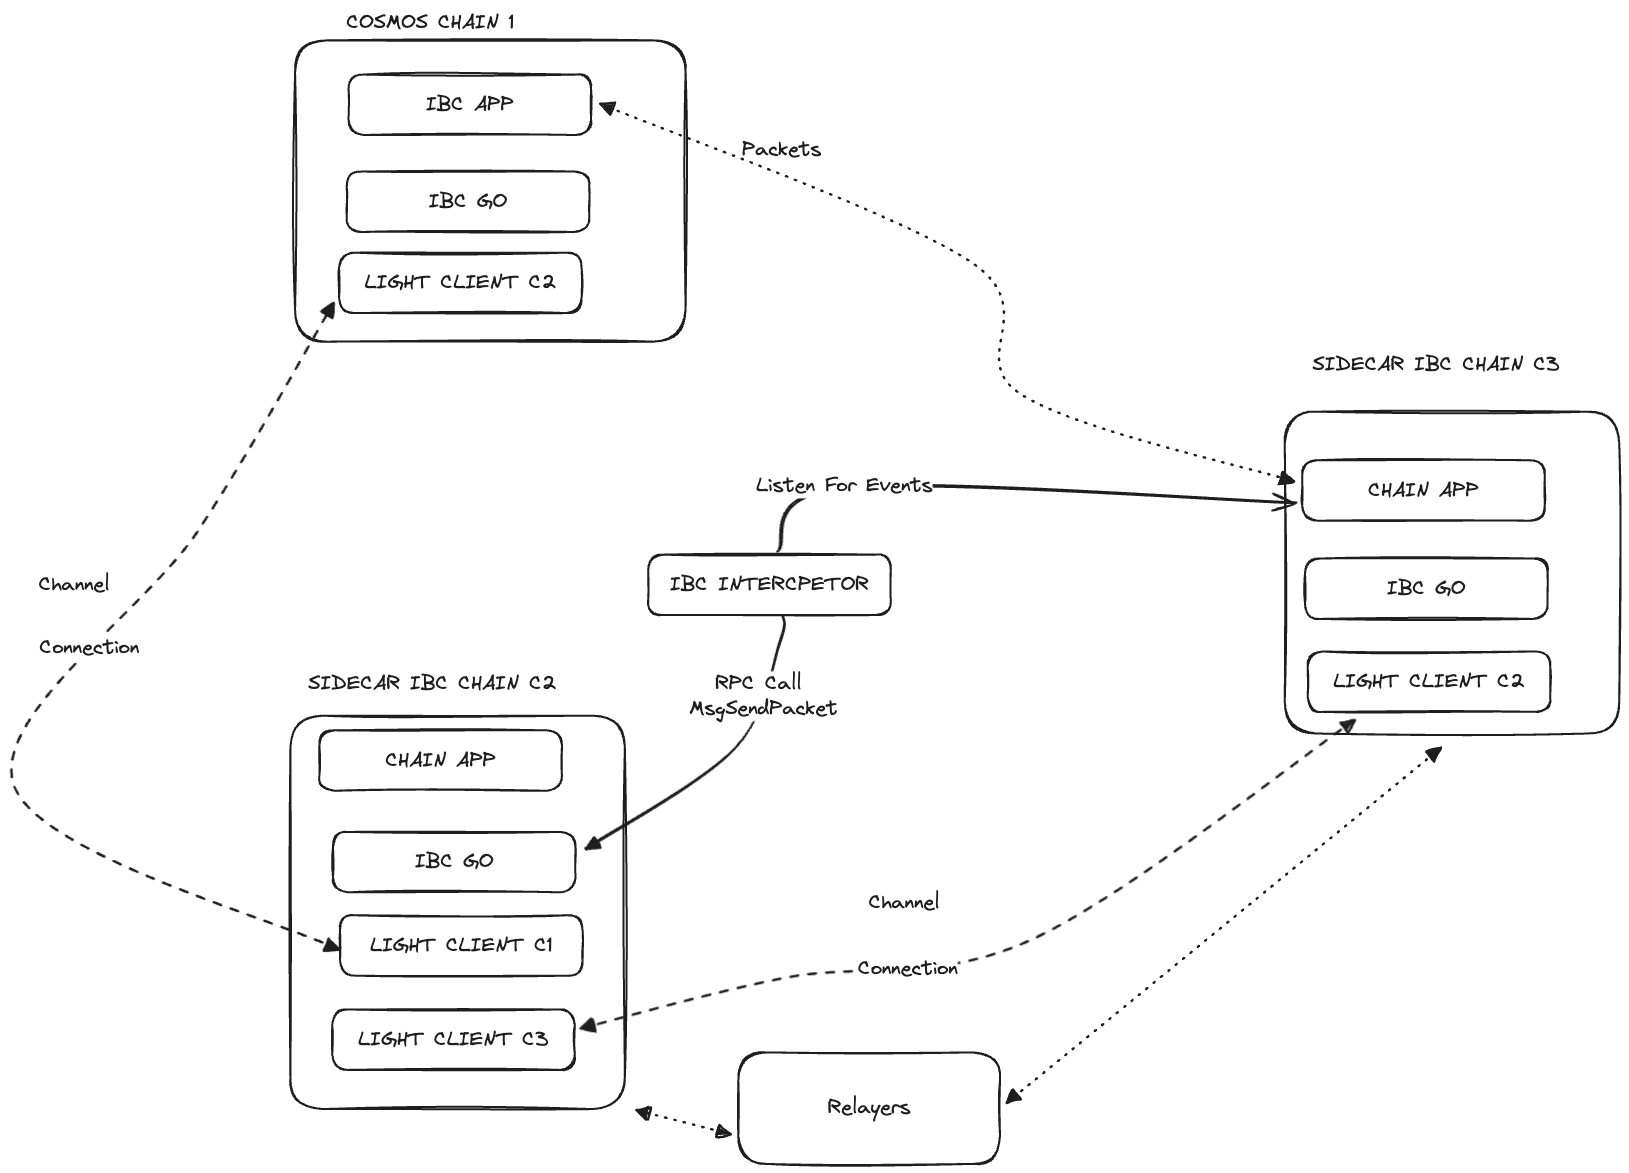
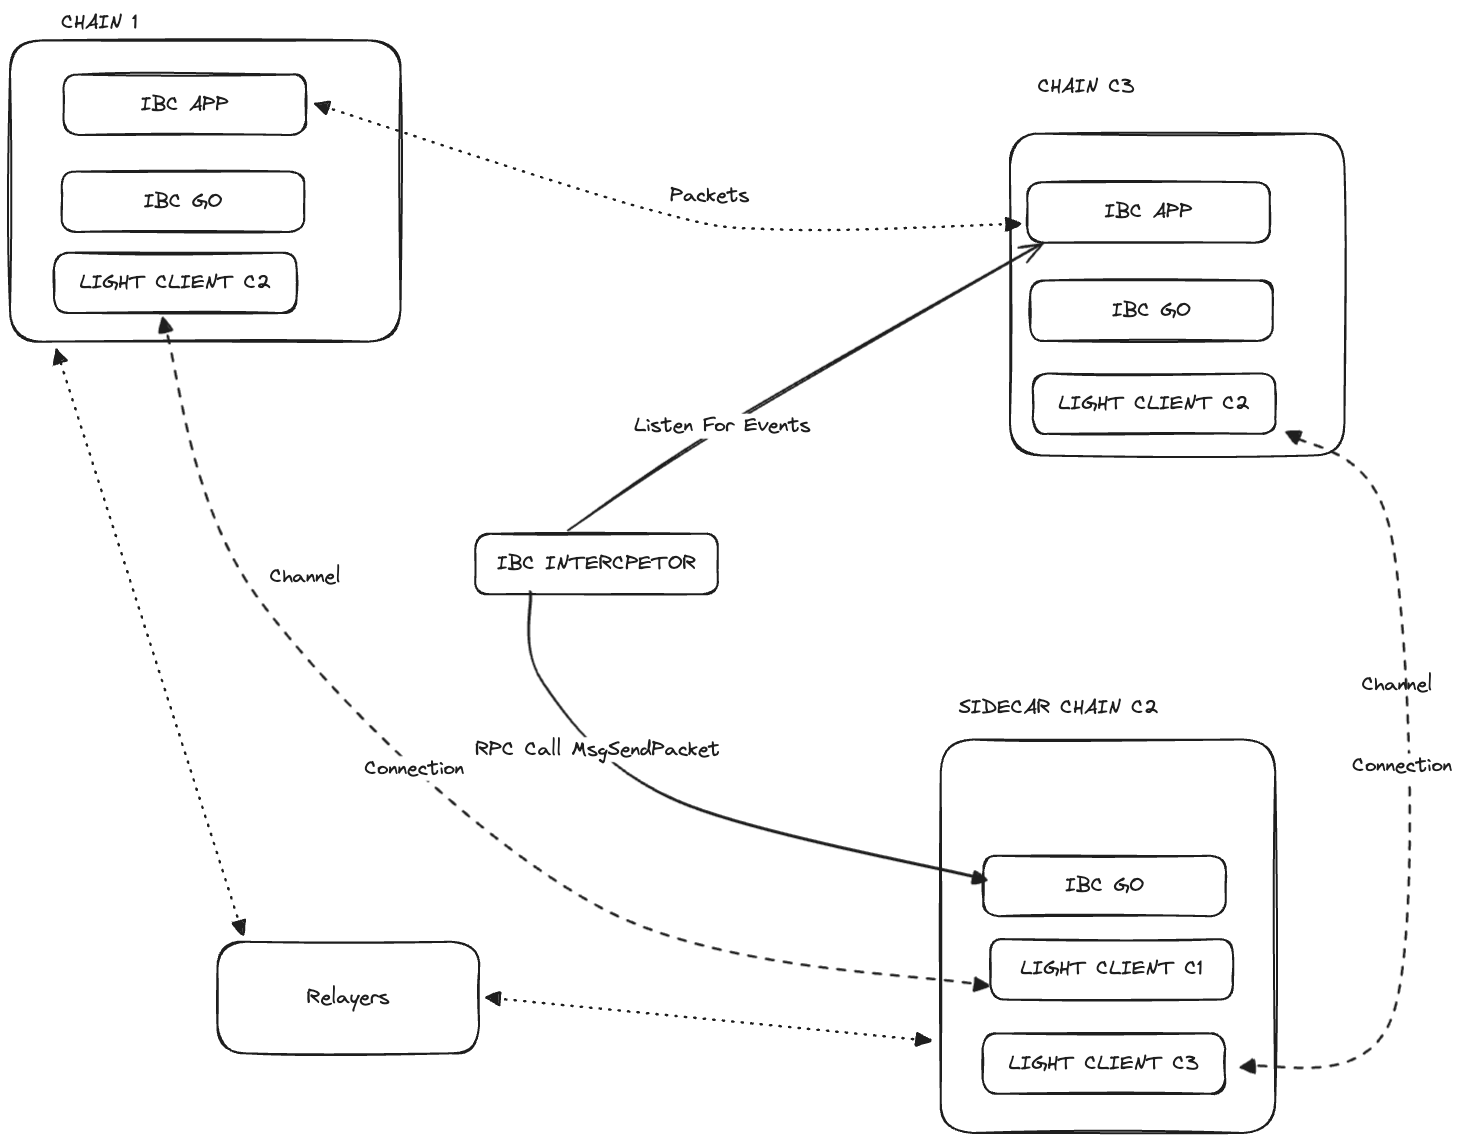
fix design image

diff --git a/README.md b/README.md
@@ -16,7 +16,7 @@ This poc uses the ibc-transfer module on C3 and ibc-go on C2 for packet commitme
 
 ![Image](PoC_Config.png)
 
-[Escalidraw Link](https://excalidraw.com/#json=G1fNQZs42JVSBmTg-o6tz,6RPTV5VFriCtIjALeTfL2g)
+[Escalidraw Link](https://excalidraw.com/#json=ku--NqFpBJyQ3ZwGZ0FP7,5c7xXgZMlLFDs8M7u0hLPA)
 
 - Use [chain1](https://github.com/sangier-ibc-playground/ibc-go/tree/main) to generate the simd binary of chain1.
 - Use [chain2](https://github.com/sangier-ibc-playground/ibc-go/tree/stefano/async-send-packet-ibc-go) to generate the simd binary of chain2. Changes to the ibc-go codebase can be checked in this [PR](https://github.com/sangier-ibc-playground/ibc-go/pull/1).
